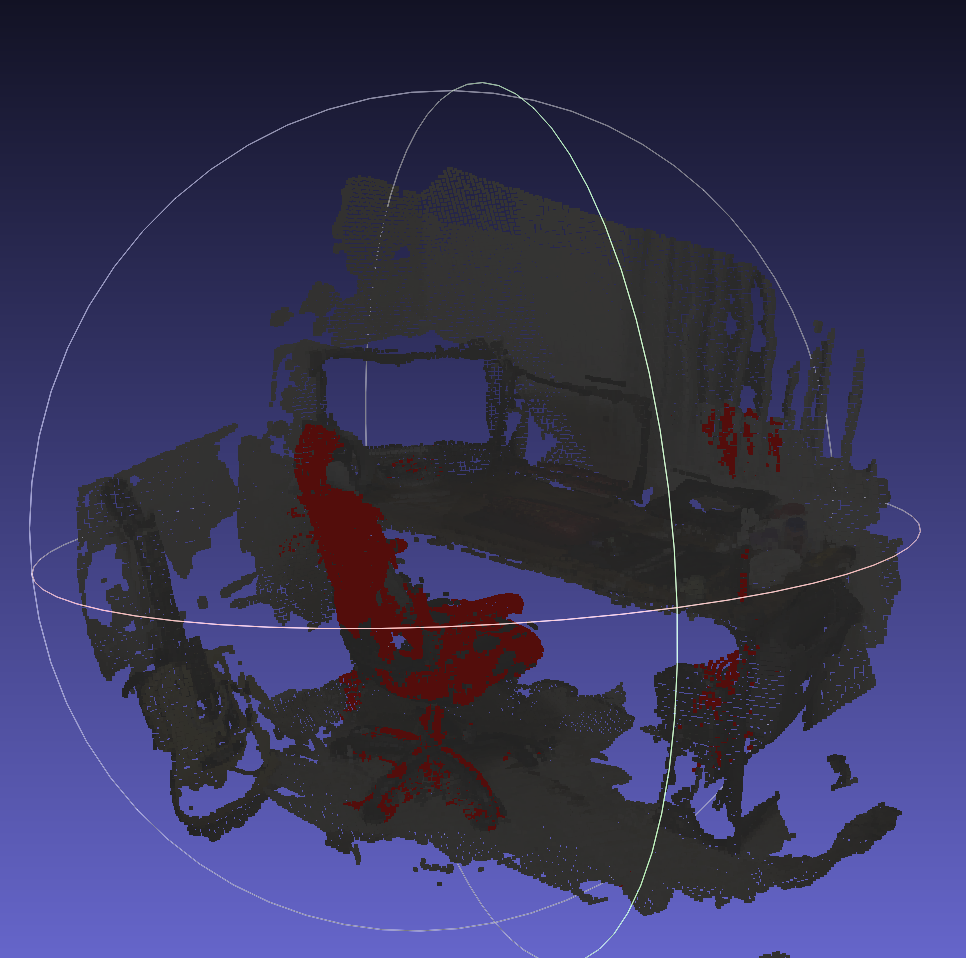
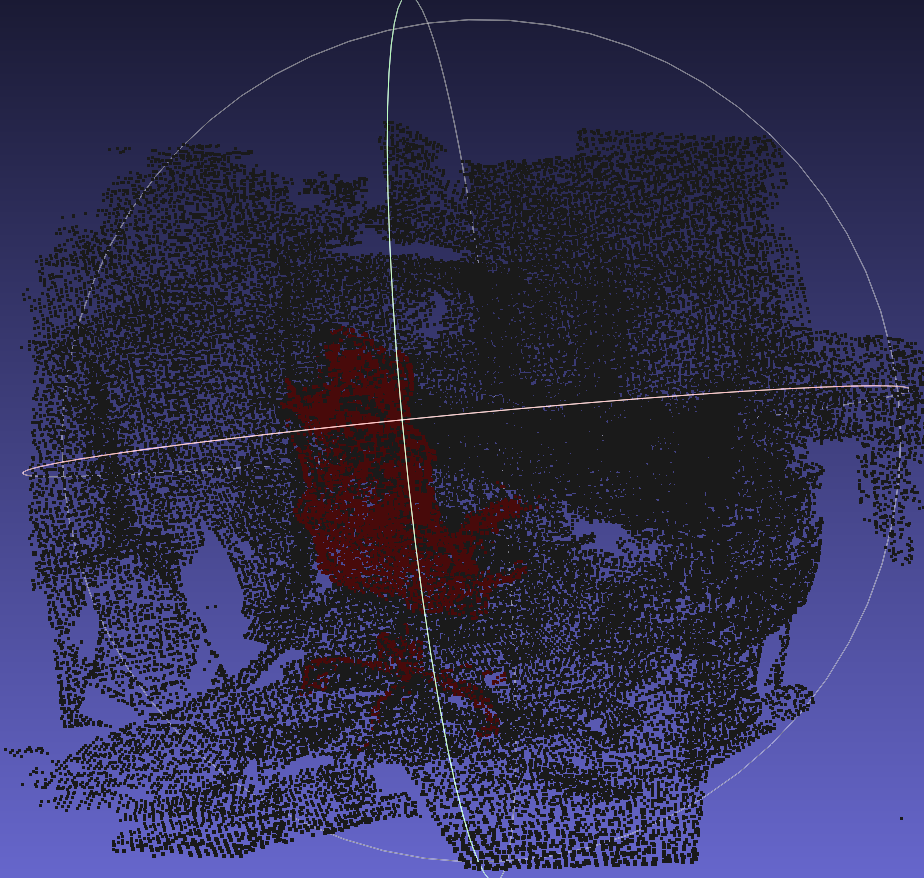
Updated README.md

diff --git a/README.md b/README.md
@@ -1,12 +1,33 @@
-# Semantic VGGT Reconstruction
+# Video-to-3D-Reconstruction
 
-Phone video to a semantically labeled, searchable 3D scene using Meta VGGT, Mask2Former, and CLIPSeg.
+Phone video to a semantically labeled, queryable 3D scene using Meta **VGGT-Omega** for geometry and **SAM 3** for open-vocabulary semantics.
+
+Given a short handheld video of an indoor area, this system produces (a) a geometrically coherent 3D point cloud with the predicted camera trajectory, (b) per-point semantic labels aligned to the geometry by construction, and (c) an open-vocabulary text query interface that highlights matching 3D regions on demand.
+
+**Geometry–semantics coherence is enforced by construction**: every semantic label is sampled from the exact pixel that produced its 3D point, so labels cannot drift relative to the underlying geometry.
 
 ## Output Examples
 
-| Semantic point cloud | Poisson mesh visualization | Open-vocabulary chair query |
+| Semantic point cloud | Poisson Disk Sampling | Open-vocabulary `chair` query |
 | --- | --- | --- |
-| ![Semantic point cloud with chair label](Images/Point%20Cloud_Semantic%20Labels.png) | ![Poisson mesh reconstruction](Images/Poisson_Mesh.png) | ![Chair query highlighted in 3D](Images/chair_query.png) |
+| ![Semantic point cloud](Images/Semantic_Point_Cloud.png) | ![Poisson mesh](Images/Poisson_disk_sampling.png) | ![Chair query](Images/chair_query.png) |
+| Fused cloud colored by SAM 3 concept ID | Poisson Disk Sampling over the same points | Top-scoring matches for the prompt `chair` highlighted in red |
+
+## Approach
+
+```text
+phone video
+  → sharp frame sampling (fps cap + max-frames)
+  → VGGT-Omega: per-frame camera, intrinsics, depth, confidence
+  → SAM 3: per-frame text-prompted semantic masks
+  → confidence filtering + voxel fusion (majority-vote labels)
+  → RGB cloud + semantic cloud + camera trajectory viewer
+  → optional SAM 3 text query over fused 3D points
+```
+
+The core idea is **pixel-aligned fusion**. VGGT-Omega predicts dense 3D geometry per frame; SAM 3 predicts text-prompted masks for the same frames; semantic IDs are sampled at the exact pixels used for 3D unprojection. Each fused point stores both its saved-frame and VGGT-grid pixel provenance, so open-vocabulary queries can re-prompt SAM 3 at the correct resolution after the fact.
+
+## Install
 
 ```bash
 git clone https://github.com/ayushmaankaria/Video-to-3D-Reconstruction.git
@@ -14,129 +35,102 @@ cd Video-to-3D-Reconstruction
 pip install -r requirements-colab.txt
 ```
 
-```bash
-python -m spatial_recon.cli run --video "/content/drive/MyDrive/desk_video.mp4" --out runs/desk --checkpoint facebook/VGGT-1B
-python -m spatial_recon.cli query --run runs/desk --text "chair" --topk-percent 8
-```
+VGGT-Omega and SAM 3 are gated. Request access on Hugging Face, generate a read token, and authenticate (`hf auth login`) before running. An L4 or A100 is recommended.
 
-Open `runs/desk/exports/viewer.html`, or load the `.ply` outputs in MeshLab
-
-## Summary
-
-This project reconstructs a small indoor area from a phone video, assigns semantic labels to the reconstructed 3D points, and lets the user run open-vocabulary text queries such as `chair`, `screen`, `keyboard`, or `blue mug` to highlight matching 3D regions.
-
-Core idea is pixel-aligned fusion: VGGT predicts dense 3D geometry for each frame, Mask2Former predicts 2D semantic masks for each frame, and the system transfers labels through the same pixels used to create the 3D points. That keeps semantic predictions tied to the underlying geometry instead of being pasted on afterward.
-
-```text
-phone video
-  -> sharp frame sampling
-  -> VGGT camera/depth/point prediction
-  -> Mask2Former 2D semantic segmentation
-  -> confidence filtering + voxel fusion
-  -> RGB point cloud + semantic point cloud + camera trajectory viewer
-  -> optional CLIPSeg text query over 3D points
-```
-
-## Outputs
-
-Each run creates:
-
-```text
-runs/desk/
-  frames/                         # sampled input frames
-  predictions_vggt.npz            # VGGT depth, cameras, point maps, confidence
-  semantics/
-    label_maps/*.npy              # per-frame semantic labels
-    previews/*.png                # color previews of 2D semantics
-    labels.json
-  exports/
-    reconstruction_rgb.ply        # geometry colored by input RGB
-    reconstruction_semantic.ply   # geometry colored by semantic class
-    reconstruction_semantic.glb   # quick 3D viewer artifact
-    viewer.html                   # interactive point cloud with camera path
-    semantic_legend.json
-    fused_points.npz              # points, labels, confidence, source pixels
-  REPORT.md                       # run summary, quality stats, design notes
-```
-
-`fused_points.npz` stores both original saved-frame pixel provenance (`source_y`, `source_x`) and VGGT-resolution pixel provenance (`source_y_vggt`, `source_x_vggt`). That distinction matters for CLIP querying because image patches/heatmaps should be sampled from the saved frame resolution, not blindly from VGGT's internal tensor resolution.
-
-## Colab Workflow
-
-Use an L4 or A100 GPU. The input video is intentionally not committed to GitHub because phone videos are usually too large for a normal repository. Put the video in Google Drive, then set the `--video` path.
+## Run
 
 ```bash
 python -m spatial_recon.cli run \
   --video "/content/drive/MyDrive/desk_video.mp4" \
   --out runs/desk \
-  --checkpoint facebook/VGGT-1B \
-  --max-frames 24 \
-  --conf-percentile 35 \
-  --sample-stride 2 \
-  --voxel-size 0.015
+  --checkpoint checkpoints/vggt-omega-1b-512/model.pt \
+  --image-resolution 512 \
+  --max-frames 48 --fps 2.0 \
+  --concepts "desk,chair,monitor,keyboard,mouse,cup,wall,floor,cable,guitar,toothbrush,medicine,watch" \
+  --conf-percentile 30 --sample-stride 2 --voxel-size 0.01
 ```
 
-For a denser final pass:
+Open `runs/desk/exports/viewer.html`, or load the `.ply` outputs in MeshLab.
 
-```bash
-python -m spatial_recon.cli run \
-  --video "/content/drive/MyDrive/desk_video.mp4" \
-  --out runs/desk_hq \
-  --checkpoint facebook/VGGT-1B \
-  --max-frames 32 \
-  --conf-percentile 45 \
-  --sample-stride 1 \
-  --voxel-size 0.008 \
-  --max-points 900000 \
-  --overwrite-frames \
-  --overwrite-predictions \
-  --overwrite-semantics
-```
-
-## Open-Vocabulary Querying
-
-After reconstruction:
+### Open-vocabulary query
 
 ```bash
 python -m spatial_recon.cli query \
   --run runs/desk \
-  --text "screen" \
-  --topk-percent 8
+  --text "monitor" \
+  --topk-percent 8 \
+  --score-threshold 0.5
 ```
 
-Writes `runs/desk/exports/query_screen.ply`, where the top-scoring query matches are painted red and all other points are muted gray. The query path uses CLIPSeg heatmaps on the original saved frames, then samples those heatmaps using each 3D point's source frame and pixel.
+Writes `runs/desk/exports/query_monitor.ply` with the top-scoring matches painted red. The query path re-runs SAM 3 with the new prompt on the saved frames and samples each 3D point's score using its stored source frame and pixel coordinates.
+
+## Outputs
+
+```text
+runs/desk/
+  frames/                         # sampled frames
+  frames_meta.json
+  predictions.npz                 # VGGT-Omega depth, cameras, confidence, points
+  semantics/
+    label_maps/*.npy              # per-frame SAM 3 semantic label maps
+    previews/*.png
+    labels.json                   # concept ↔ id map
+  exports/
+    reconstruction_rgb.ply        # geometry colored by RGB
+    reconstruction_semantic.ply   # geometry colored by concept
+    reconstruction_semantic.glb   # point-cloud GLB (best-effort)
+    viewer.html                   # interactive cloud + camera path
+    semantic_legend.json
+    fused_points.npz              # points, labels, confidence, source pixels
+    query_<text>.ply              # written by the query subcommand
+  REPORT.md                       # quality stats and design notes
+```
+
+## Reference Run
+
+A handheld iPhone 16 Pro clip (4K, 60 fps) of a desk area, processed end-to-end on a single **NVIDIA L4** in **~8 minutes**:
+
+| Metric | Value |
+| --- | --- |
+| Frames sampled | 48 |
+| Fused points (after voxel filtering, 1 cm voxels) | ~90.5k |
+| Semantic classes present | 12 |
+| Mean / median VGGT-Omega confidence | 6.58 / 6.34 |
+| Scene extent (bbox) | ~1.34 m × 1.59 m × 1.10 m |
+
+Concept distribution after fusion: `unknown` 25.0k, `wall` 24.2k, `floor` 14.4k, `chair` 8.8k, `desk` 7.3k, `monitor` 6.1k, `cable` 1.5k, `guitar` 1.5k, `keyboard` 0.8k, `medicine` 0.5k, `mouse` 0.2k, `toothbrush` 0.2k.
 
 ## Design Choices
 
-- VGGT over classical SfM: VGGT directly predicts camera pose, intrinsics, depth, point maps, and confidence from multiple images, making the pipeline compact and robust for a short internship challenge.
-- Point cloud as the primary output: raw points preserve VGGT's geometry directly. Poisson meshes can look fuller, but they can also hallucinate curved shells around sparse/noisy phone-video geometry.
-- Pixel-aligned semantics: labels are sampled at the same pixels used for 3D unprojection, keeping semantics aligned with geometry.
-- Majority-vote voxel labels: nearby points are merged spatially, and each voxel receives the most common semantic class inside it.
-- Camera trajectory: the HTML viewer overlays predicted camera positions so reviewers can see how the phone moved through the scene.
+- **VGGT-Omega over plain VGGT and over COLMAP/SfM + MVS.** I first ran the baseline VGGT model and got usable but subpar geometry on phone-video desk scenes. VGGT-Omega (released May 18, 2026 by Meta) gave noticeably cleaner depth and more consistent cameras, and avoided the matching-failure modes of classical SfM on textureless office surfaces.
+- **SAM 3 over Mask2Former / CLIPSeg.** Both alternatives were tried; SAM 3 produced cleaner instance-level masks for indoor concepts and, critically, supports the same open-vocabulary text prompts at reconstruction time *and* at query time, which is what makes the query subcommand possible without a second model.
+- **Point cloud as the primary output.** Raw points preserve VGGT-Omega's geometry directly. Poisson meshes look fuller but can hallucinate curved shells around sparse or noisy regions, so the mesh is treated as a visualization rather than the source of truth.
+- **Pixel-aligned semantics, not post-hoc projection.** SAM 3 labels are sampled at the same pixels used for 3D unprojection — geometry and semantics share a coordinate system by construction.
+- **Voxel fusion with confidence-weighted majority vote.** Each voxel is represented by its highest-confidence point and labeled by the most common class inside it (ties broken by confidence). Per-point provenance for both the saved frame and the VGGT prediction grid is preserved for downstream querying.
+- **Camera trajectory in the viewer.** Predicted camera poses are rendered alongside the cloud so a reviewer can see how the phone moved through the scene and judge geometric plausibility directly.
+
+## What Works, What Doesn't
+
+**Reconstructs well:** the desk, monitors, chair, and small objects on the desk (medicine bottles, keyboard, mouse) are clean and recognisable in 3D. Monitor screens, often a failure mode for dense methods, hold up reasonably.
+
+**Struggles:**
+- Reflective surfaces such as the side of the guitar are noisy and partially missing, as expected from view-dependent reflections.
+- Floor and walls show mild deformation, likely a function of recording style — pure-rotation segments and limited parallax across textureless surfaces give VGGT-Omega less to anchor against.
 
 ## Limitations
 
-- Desk scenes are challenging because reflective displays, thin chair legs, motion blur, and textureless flat surfaces are difficult for dense reconstruction.
-- Mask2Former ADE20K labels are useful for broad indoor categories such as walls, floors, tables, chairs, shelves, cabinets, and screens/displays, but they are not object-instance labels.
-- Open-vocabulary querying currently uses CLIPSeg heatmaps sampled at source pixels. A deeper version would cache dense CLIP/MaskCLIP features per frame and support faster repeated queries.
-- A Gaussian Splatting visualization path would likely produce a more photorealistic result than point-cloud rendering.
+- SAM 3 masks are prompt-dependent. The chosen concept list directly affects which objects receive labels in the fused cloud, and unlisted objects fall into `unknown`.
+- Open-vocabulary querying re-runs SAM 3 per query. A more efficient version would cache dense per-frame features or distill them into per-point feature embeddings for instant queries.
+- A 3D Gaussian Splatting visualisation path would likely produce a more photorealistic output than point-cloud rendering, at the cost of a heavier optimisation stage.
 
 ## Recording Tips
 
-- Record at normal/slower walking speed.
-- Move laterally as well as rotating; pure rotation gives weaker geometry.
-- Keep scene static; avoid reflective screens dominating frame.
-- Capture overlapping views of object boundaries: chair legs, desk edges, screen, walls, floor.
-
-## Local Check
-
-```bash
-python -m unittest tests/test_fusion.py
-```
+- Walk at normal or slightly slow pace; avoid sudden motion.
+- Translate as well as rotate — pure rotation gives VGGT-Omega weaker geometry.
+- Keep the scene static and avoid letting reflective screens dominate the frame.
+- Capture overlapping views of object boundaries: chair legs, desk edges, monitors, walls, floor.
 
 ## References
 
-- Meta VGGT repository: https://github.com/facebookresearch/vggt
-- VGGT project page: https://vgg-t.github.io/
-- Mask2Former ADE20K model: https://huggingface.co/facebook/mask2former-swin-large-ade-semantic
-- CLIPSeg model: https://huggingface.co/CIDAS/clipseg-rd64-refined
+- VGGT-Omega: https://github.com/facebookresearch/vggt-omega · https://huggingface.co/facebook/vggt-omega
+- SAM 3: https://github.com/facebookresearch/sam3 · https://huggingface.co/facebook/sam3
